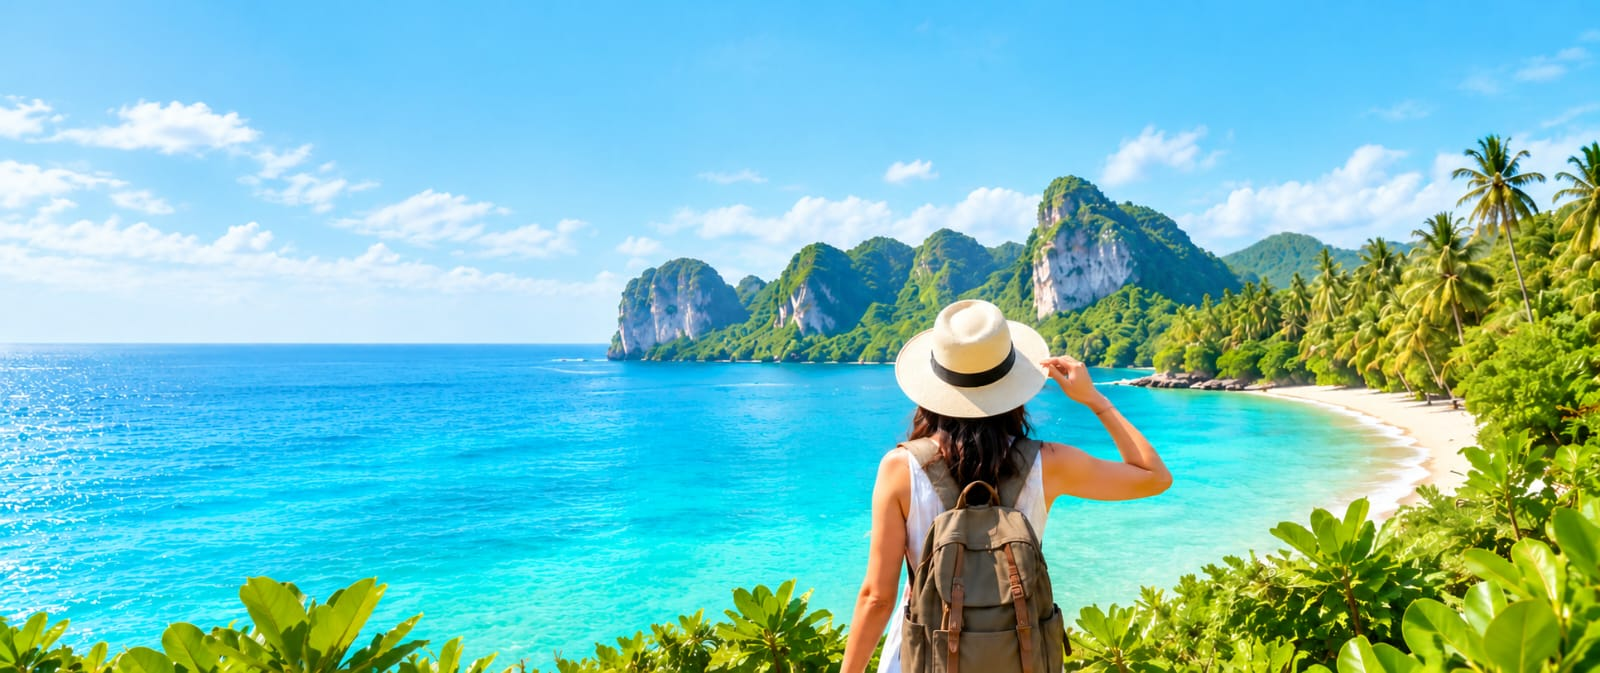
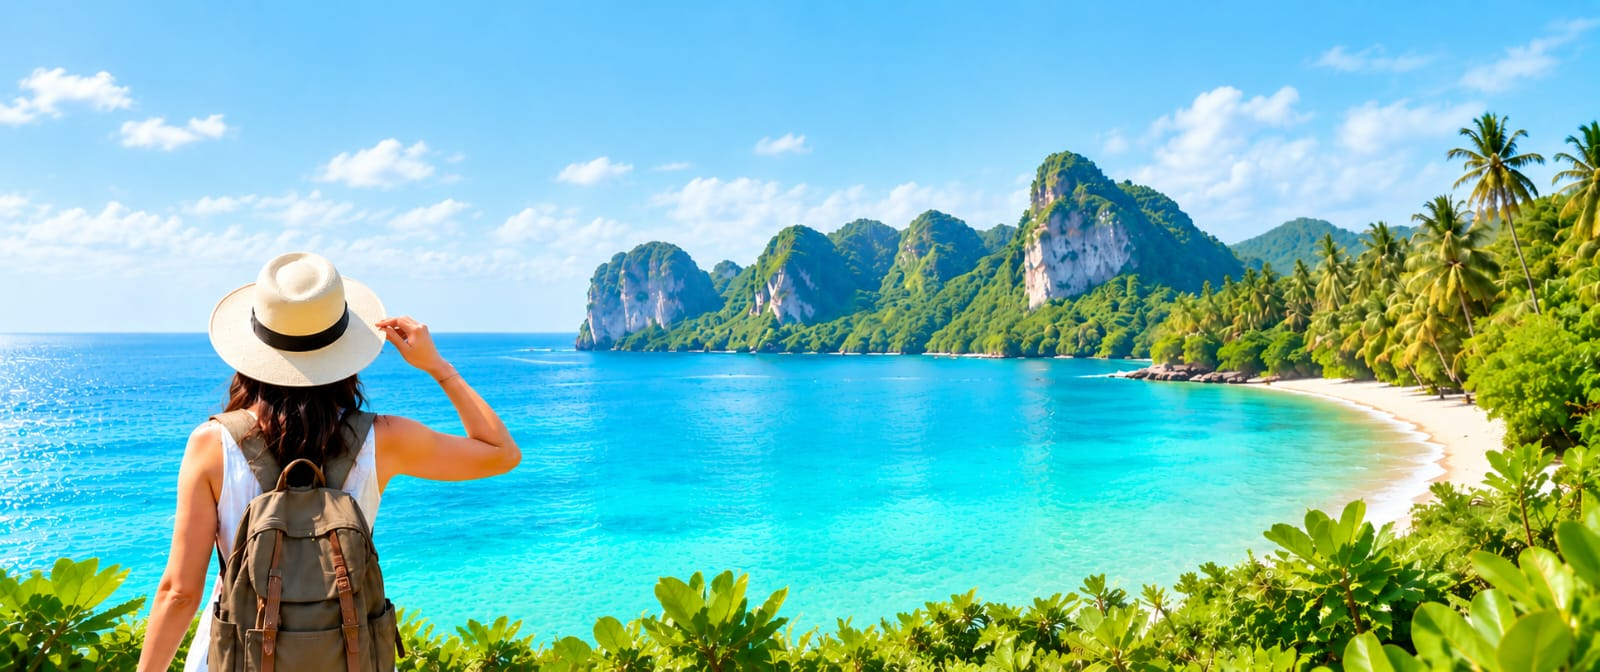
UI enhancements: Updated category images, reduced gradient overlays, improved contact layout, fixed footer alignment, added new backgrounds for about and reviews pages, and updated package duration.

diff --git a/src/components.jsx b/src/components.jsx
@@ -1,12 +1,12 @@
 import React from 'react';
 import { Link, NavLink, useLocation } from 'react-router-dom';
 
-export const MapPin = () => <svg width="18" height="18" viewBox="0 0 24 24" fill="none" stroke="currentColor" strokeWidth="2" strokeLinecap="round" strokeLinejoin="round"><path d="M21 10c0 7-9 13-9 13s-9-6-9-13a9 9 0 0 1 18 0z"></path><circle cx="12" cy="10" r="3"></circle></svg>;
+export const MapPin = ({ size = 18 }) => <svg width={size} height={size} viewBox="0 0 24 24" fill="none" stroke="currentColor" strokeWidth="2" strokeLinecap="round" strokeLinejoin="round"><path d="M21 10c0 7-9 13-9 13s-9-6-9-13a9 9 0 0 1 18 0z"></path><circle cx="12" cy="10" r="3"></circle></svg>;
 export const Calendar = () => <svg width="18" height="18" viewBox="0 0 24 24" fill="none" stroke="currentColor" strokeWidth="2" strokeLinecap="round" strokeLinejoin="round"><rect x="3" y="4" width="18" height="18" rx="2" ry="2"></rect><line x1="16" y1="2" x2="16" y2="6"></line><line x1="8" y1="2" x2="8" y2="6"></line><line x1="3" y1="10" x2="21" y2="10"></line></svg>;
 export const Users = () => <svg width="18" height="18" viewBox="0 0 24 24" fill="none" stroke="currentColor" strokeWidth="2" strokeLinecap="round" strokeLinejoin="round"><path d="M17 21v-2a4 4 0 0 0-4-4H5a4 4 0 0 0-4 4v2"></path><circle cx="9" cy="7" r="4"></circle><path d="M23 21v-2a4 4 0 0 0-3-3.87"></path><path d="M16 3.13a4 4 0 0 1 0 7.75"></path></svg>;
 export const SearchIcon = () => <svg width="20" height="20" viewBox="0 0 24 24" fill="none" stroke="currentColor" strokeWidth="2" strokeLinecap="round" strokeLinejoin="round"><circle cx="11" cy="11" r="8"></circle><line x1="21" y1="21" x2="16.65" y2="16.65"></line></svg>;
 export const Clock = () => <svg width="16" height="16" viewBox="0 0 24 24" fill="none" stroke="currentColor" strokeWidth="2" strokeLinecap="round" strokeLinejoin="round"><circle cx="12" cy="12" r="10"></circle><polyline points="12 6 12 12 16 14"></polyline></svg>;
-export const PhoneIcon = () => <svg width="18" height="18" viewBox="0 0 24 24" fill="none" stroke="currentColor" strokeWidth="2" strokeLinecap="round" strokeLinejoin="round"><path d="M22 16.92v3a2 2 0 0 1-2.18 2 19.79 19.79 0 0 1-8.63-3.07 19.5 19.5 0 0 1-6-6 19.79 19.79 0 0 1-3.07-8.67A2 2 0 0 1 4.11 2h3a2 2 0 0 1 2 1.72 12.84 12.84 0 0 0 .7 2.81 2 2 0 0 1-.45 2.11L8.09 9.91a16 16 0 0 0 6 6l1.27-1.27a2 2 0 0 1 2.11-.45 12.84 12.84 0 0 0 2.81.7A2 2 0 0 1 22 16.92z"></path></svg>;
+export const PhoneIcon = ({ size = 18 }) => <svg width={size} height={size} viewBox="0 0 24 24" fill="none" stroke="currentColor" strokeWidth="2" strokeLinecap="round" strokeLinejoin="round"><path d="M22 16.92v3a2 2 0 0 1-2.18 2 19.79 19.79 0 0 1-8.63-3.07 19.5 19.5 0 0 1-6-6 19.79 19.79 0 0 1-3.07-8.67A2 2 0 0 1 4.11 2h3a2 2 0 0 1 2 1.72 12.84 12.84 0 0 0 .7 2.81 2 2 0 0 1-.45 2.11L8.09 9.91a16 16 0 0 0 6 6l1.27-1.27a2 2 0 0 1 2.11-.45 12.84 12.84 0 0 0 2.81.7A2 2 0 0 1 22 16.92z"></path></svg>;
 export const MailIcon = ({ size = 18 }) => <svg width={size} height={size} viewBox="0 0 24 24" fill="none" stroke="currentColor" strokeWidth="2" strokeLinecap="round" strokeLinejoin="round"><path d="M4 4h16c1.1 0 2 .9 2 2v12c0 1.1-.9 2-2 2H4c-1.1 0-2-.9-2-2V6c0-1.1.9-2 2-2z"></path><polyline points="22,6 12,13 2,6"></polyline></svg>;
 export const Leaf = () => <svg width="32" height="32" viewBox="0 0 24 24" fill="none" stroke="currentColor" strokeWidth="2" strokeLinecap="round" strokeLinejoin="round"><path d="M11 20A7 7 0 0 1 9.8 6.1C15.5 5 17 4.48 19 2c1 2 2 4.18 2 8 0 5.5-4.78 10-10 10Z"></path><path d="M2 21c0-3 1.85-5.36 5.08-6C9.5 14.52 12 13 13 12"></path></svg>;
 export const Shield = () => <svg width="32" height="32" viewBox="0 0 24 24" fill="none" stroke="currentColor" strokeWidth="2" strokeLinecap="round" strokeLinejoin="round"><path d="M12 22s8-4 8-10V5l-8-3-8 3v7c0 6 8 10 8 10z"></path></svg>;
@@ -56,18 +56,18 @@ export function Footer() {
       <div className="footer-grid">
         <div className="footer-brand">
           <h3>NewV Tours and Travels</h3>
-          <p>Founded by Jeevapriya MS.</p>
+          <p>Founded by Jeevapriya MS</p>
         </div>
 
-        <div>
+        <div className="footer-contact-section">
           <h4 className="footer-title">Contact Us</h4>
           <ul className="footer-contact">
-            <li><MapPin /> <span>31A, Chelliamman Koil St, Athipet, Ambattur, Chennai - 600058</span></li>
-            <li><PhoneIcon /> <span>+91 9840636358</span></li>
-            <li><MailIcon /> <span>newvtoursandtravels@gmail.com</span></li>
+            <li><span className="footer-icon-wrap"><MapPin size={22} /></span> <span>31A, Chelliamman Koil Street,<br />Chelliamman Nagar, Athipet, Ambattur, Chennai, <br /> Tamil Nadu,<br />India - 600058</span></li>
+            <li><span className="footer-icon-wrap"><PhoneIcon size={22} /></span> <span>+91 9840636358</span></li>
+            <li><span className="footer-icon-wrap"><MailIcon size={22} /></span> <span>newvtoursandtravels@gmail.com</span></li>
           </ul>
         </div>
-        
+
         <div>
           <h4 className="footer-title">Follow Us</h4>
           <div className="social-links" style={{ display: 'flex', gap: '1.5rem', marginTop: '1rem' }}>
@@ -85,13 +85,13 @@ export function Footer() {
 
         <div>
           <h4 className="footer-title">Our Location</h4>
-          <iframe 
-            src="https://maps.google.com/maps?q=31A,+Chelliamman+Koil+St,+Athipet,+Ambattur,+Chennai&t=&z=14&ie=UTF8&iwloc=&output=embed" 
-            width="100%" 
-            height="180" 
-            style={{ border: 0, borderRadius: '12px', marginTop: '1rem', boxShadow: 'var(--shadow-sm)' }} 
-            allowFullScreen="" 
-            loading="lazy" 
+          <iframe
+            src="https://maps.google.com/maps?q=31A,+Chelliamman+Koil+St,+Athipet,+Ambattur,+Chennai&t=&z=14&ie=UTF8&iwloc=&output=embed"
+            width="100%"
+            height="180"
+            style={{ border: 0, borderRadius: '12px', marginTop: '1rem', boxShadow: 'var(--shadow-sm)' }}
+            allowFullScreen=""
+            loading="lazy"
             title="Office Location"
           ></iframe>
         </div>
@@ -129,16 +129,16 @@ export function PopupModal() {
 
   return (
     <div style={{ position: 'fixed', top: 0, left: 0, right: 0, bottom: 0, background: 'rgba(0,0,0,0.6)', zIndex: 9999, display: 'flex', alignItems: 'center', justifyContent: 'center', padding: '1rem', backdropFilter: 'blur(4px)' }}>
-      <div style={{ background: 'var(--white)', borderRadius: '24px', padding: '2.5rem', maxWidth: '500px', width: '100%', position: 'relative', boxShadow: 'var(--shadow-lg)' }}>
+      <div className="popup-modal-content" style={{ background: 'var(--white)', borderRadius: '24px', padding: '2.5rem', maxWidth: '500px', width: '100%', position: 'relative', boxShadow: 'var(--shadow-lg)' }}>
         <button onClick={() => setIsOpen(false)} style={{ position: 'absolute', top: '1.5rem', right: '1.5rem', background: 'var(--light-gray)', border: 'none', width: '32px', height: '32px', borderRadius: '50%', display: 'flex', alignItems: 'center', justifyContent: 'center', fontSize: '1.2rem', cursor: 'pointer', color: 'var(--slate-gray)' }}>✕</button>
         <h3 style={{ marginBottom: '1.5rem', color: 'var(--deep-forest-green)', fontSize: '1.8rem', textAlign: 'center' }}>Plan Your Dream Trip</h3>
         <p style={{ textAlign: 'center', color: 'var(--slate-gray)', marginBottom: '2rem' }}>Leave your details and we'll craft the perfect itinerary for you.</p>
-        <form onSubmit={(e) => { 
-          e.preventDefault(); 
+        <form onSubmit={(e) => {
+          e.preventDefault();
           const formData = new FormData(e.target);
           const text = `Hello NewV Tours and Travels! I would like to plan my dream trip.%0A%0A*Name:* ${formData.get('name')}%0A*Phone:* ${formData.get('phone')}%0A*Travel Date:* ${formData.get('date')}%0A*Destination:* ${formData.get('destination')}`;
           window.open(`https://wa.me/919840636358?text=${text}`, '_blank', 'noopener,noreferrer');
-          setIsOpen(false); 
+          setIsOpen(false);
         }} style={{ display: 'flex', flexDirection: 'column', gap: '1.2rem' }}>
           <div>
             <label style={{ display: 'block', marginBottom: '0.4rem', fontWeight: '600', color: 'var(--slate-gray)' }}>Full Name</label>

diff --git a/src/pages.jsx b/src/pages.jsx
@@ -30,8 +30,8 @@ const AnimatedNumber = ({ end, duration, suffix = "" }) => {
 export function Home() {
   const categoryBoxes = [
     { title: "India", image: "https://encrypted-tbn0.gstatic.com/images?q=tbn:ANd9GcSAT3giq7Afbau18i9ADt-lLKyFephPrv3vkIM5evsm7A&s=10", link: "/packages", tab: "India" },
-    { title: "International", image: "https://encrypted-tbn0.gstatic.com/images?q=tbn:ANd9GcTcP9efvkJsN_vhabqAIpsX7mwccjl-MJWxf1PHnfib7g&s=10", link: "/packages", tab: "International" },
-    { title: "Wildlife Adventures in India", image: "https://encrypted-tbn0.gstatic.com/images?q=tbn:ANd9GcThzEI00SiPIBLS1vlg9WR9UtDpneXMTZnWmfsgCSHqUg&s=10", link: "/packages", tab: "Wildlife" }
+    { title: "International", image: "/images/category_international.png", link: "/packages", tab: "International" },
+    { title: "Wildlife Adventures in India", image: "/images/category_wildlife.png", link: "/packages", tab: "Wildlife" }
   ];
 
   return (
@@ -53,7 +53,7 @@ export function Home() {
           {categoryBoxes.map((cat, idx) => (
             <div className={`dest-card category-card animate-fade-in-up delay-${(idx + 1) * 100}`} key={idx} style={{ padding: 0, overflow: 'hidden', position: 'relative', display: 'flex', flexDirection: 'column', justifyContent: 'flex-end', borderRadius: '24px', boxShadow: '0 10px 30px rgba(0,0,0,0.1)' }}>
               <img src={cat.image} alt={cat.title} className="dest-img" style={{ position: 'absolute', top: 0, left: 0, width: '100%', height: '100%', objectFit: 'cover', objectPosition: 'center top', zIndex: 0 }} />
-              <div style={{ position: 'absolute', top: 0, left: 0, right: 0, bottom: 0, background: 'linear-gradient(to top, rgba(0,0,0,0.9) 0%, rgba(0,0,0,0.2) 60%, rgba(0,0,0,0.1) 100%)', zIndex: 1 }}></div>
+              <div style={{ position: 'absolute', top: 0, left: 0, right: 0, bottom: 0, background: 'linear-gradient(to top, rgba(0,0,0,0.7) 0%, rgba(0,0,0,0.1) 60%, rgba(0,0,0,0) 100%)', zIndex: 1 }}></div>
               <div className="dest-info" style={{ padding: '2rem', textAlign: 'center', position: 'relative', zIndex: 2 }}>
                 <h3 className="dest-title" style={{ fontSize: '1.8rem', marginBottom: '1.5rem', color: 'var(--white)', textShadow: '0 2px 4px rgba(0,0,0,0.5)' }}>{cat.title}</h3>
                 <Link to={cat.link} state={{ activeTab: cat.tab }} className="btn-primary" style={{ padding: '0.8rem 2rem', fontSize: '1rem', textDecoration: 'none', display: 'inline-block', border: 'none', background: 'var(--nature-green)', color: 'white' }}>View Tour Packages</Link>
@@ -114,7 +114,7 @@ export function Home() {
 
       <section className="cta-section animate-fade-in-up" style={{ margin: '5rem auto' }}>
         <h2 className="cta-title">Ready for your next adventure?</h2>
-        <p className="cta-desc">Ready to create unforgettable memories? Let our experts craft the perfect personalized itinerary for your next great adventure.</p>
+        <p className="cta-desc"> Let our experts craft the perfect personalized itinerary for you</p>
         <button
           className="btn-secondary"
           style={{ padding: '1rem 3rem', fontSize: '1.1rem', position: 'relative', zIndex: 10, cursor: 'pointer' }}
@@ -187,7 +187,7 @@ export function Packages() {
     { title: 'Golden Triangle Tour – Delhi – Agra – Jaipur', duration: '5 Nights and 6 Days', image: '/images/Pictures/Delhi.jpg' },
     { title: 'Goa', duration: '3 Nights and 4 Days', image: 'https://titosgoa.com/_next/image?url=%2Fapi%2Fuploads%2F1768282500728-why-tourists-visit-goa.png&w=1200&q=75' },
     { title: 'Gujarat – Rann Utsav', duration: '4 Nights and 5 Days', image: '/images/rann-utsav.jpg' },
-    { title: 'Himachal - Manali, Shimla, Dalhousie, Dharamshala', duration: 'Varying', image: 'https://assets.cntraveller.in/photos/66ab6453fe4fdad0450b3402/16:9/w_1920,c_limit/GettyImages-1580694292.jpg' },
+    { title: 'Himachal - Manali, Shimla, Dalhousie, Dharamshala', duration: '2Nights and 3 Days', image: 'https://assets.cntraveller.in/photos/66ab6453fe4fdad0450b3402/16:9/w_1920,c_limit/GettyImages-1580694292.jpg' },
     { title: 'Kashmir', duration: '4 Nights and 5 Days', image: '/images/kashmir.jpg' },
     { title: 'Kerala - Kochi - Munnar - Allepey - Thekkady', duration: '4 Nights and 5 Days', image: '/images/kerala_houseboat.png' },
     { title: 'Kodaikanal', duration: '3 Nights and 4 Days', image: '/images/kodaikanal.jpg' },
@@ -270,7 +270,7 @@ export function Packages() {
           {getActivePackages().map((pkg, idx) => (
             <div className="dest-card package-card" key={idx} style={{ padding: 0, overflow: 'hidden', position: 'relative', display: 'flex', flexDirection: 'column', justifyContent: 'flex-end', borderRadius: '20px' }}>
               <img src={pkg.image} alt={pkg.title} className="dest-img" style={{ position: 'absolute', top: 0, left: 0, width: '100%', height: '100%', objectFit: 'cover', zIndex: 0 }} />
-              <div style={{ position: 'absolute', top: 0, left: 0, right: 0, bottom: 0, background: 'linear-gradient(to top, rgba(0,0,0,0.95) 0%, rgba(0,0,0,0.4) 60%, rgba(0,0,0,0) 100%)', zIndex: 1 }}></div>
+              <div style={{ position: 'absolute', top: 0, left: 0, right: 0, bottom: 0, background: 'linear-gradient(to top, rgba(0,0,0,0.75) 0%, rgba(0,0,0,0.2) 60%, rgba(0,0,0,0) 100%)', zIndex: 1 }}></div>
               <div style={{ padding: '1.5rem', position: 'relative', zIndex: 2, display: 'flex', flexDirection: 'column' }}>
                 <h3 style={{ fontSize: '1.3rem', color: 'var(--white)', marginBottom: '0.5rem', textShadow: '0 2px 4px rgba(0,0,0,0.6)' }}>{pkg.title}</h3>
                 <div style={{ display: 'flex', alignItems: 'center', gap: '0.5rem', color: 'var(--fresh-lime)', fontWeight: '600', fontSize: '0.95rem', marginBottom: '1.2rem' }}>
@@ -289,7 +289,7 @@ export function Packages() {
 export function About() {
   return (
     <>
-      <PageHeader title="About Us" subtitle="Discover the world. Discover the new you." image="https://images.unsplash.com/photo-1469474968028-56623f02e42e?auto=format&fit=crop&q=80&w=1600" />
+      <PageHeader title="About Us" subtitle="Discover the world. Discover the new you." image="/images/about_bg.png" />
       <section className="container" style={{ minHeight: '60vh', padding: '6rem 2rem' }}>
         <div className="about-grid">
           <div className="about-img-wrapper animate-fade-in-up">
@@ -471,8 +471,8 @@ const ReviewCard = ({ review, idx }) => {
         </div>
 
         <div style={{ flex: 1, display: 'flex', flexDirection: 'column' }}>
-          <div style={{ 
-            maxHeight: isExpanded ? '120px' : 'none', 
+          <div style={{
+            maxHeight: isExpanded ? '120px' : 'none',
             overflowY: isExpanded ? 'auto' : 'visible',
             paddingRight: isExpanded ? '8px' : '0'
           }}>
@@ -481,8 +481,8 @@ const ReviewCard = ({ review, idx }) => {
             </p>
           </div>
           {isLong && (
-            <button 
-              onClick={() => setIsExpanded(!isExpanded)} 
+            <button
+              onClick={() => setIsExpanded(!isExpanded)}
               style={{ color: 'var(--nature-green)', background: 'none', border: 'none', padding: 0, marginTop: '8px', cursor: 'pointer', fontWeight: '600', fontSize: '0.95rem', alignSelf: 'flex-start' }}
             >
               {isExpanded ? 'Show Less' : 'Read More'}
@@ -514,7 +514,7 @@ export function Reviews() {
 
   return (
     <>
-      <PageHeader title="Client Reviews" subtitle="Real experiences from our happy travellers." image="https://images.unsplash.com/photo-1522202176988-66273c2fd55f?auto=format&fit=crop&q=80&w=1600" />
+      <PageHeader title="Client Reviews" subtitle="Real experiences from our happy travellers." image="/images/reviews_bg.png" />
       <section className="container" style={{ minHeight: '60vh', padding: '6rem 0' }}>
         <h2 className="section-title animate-fade-in-up" style={{ textAlign: 'center', marginBottom: '4rem' }}>Our Happy Travellers</h2>
 

diff --git a/src/index.css b/src/index.css
@@ -364,7 +364,7 @@ section {
   content: '';
   position: absolute;
   inset: 0;
-  background: linear-gradient(to right, rgba(27, 94, 32, 0.6), rgba(0, 0, 0, 0.3));
+  background: linear-gradient(to right, rgba(27, 94, 32, 0.4), rgba(0, 0, 0, 0.1));
 }
 
 .hero-content {
@@ -508,9 +508,9 @@ section {
 
 .contact-grid {
   display: grid;
-  grid-template-columns: repeat(auto-fit, minmax(350px, 1fr));
+  grid-template-columns: 1.5fr 1fr;
   gap: 4rem;
-  max-width: 1000px;
+  max-width: 1300px;
   margin: 0 auto;
 }
 
@@ -787,15 +787,25 @@ section {
 
 .footer-contact li {
   display: flex;
-  align-items: flex-start;
+  align-items: flex-start !important;
   gap: 0.8rem;
   margin-bottom: 1rem;
   color: var(--slate-gray);
+  text-align: left !important;
 }
 
-.footer-contact li {
-  color: var(--charcoal);
-  margin-top: 0.3rem;
+.footer-icon-wrap {
+  display: flex;
+  align-items: center;
+  justify-content: center;
+  width: 36px;
+  height: 36px;
+  min-width: 36px;
+  border-radius: 50%;
+  background: rgba(67, 160, 71, 0.12);
+  color: var(--nature-green);
+  flex-shrink: 0;
+  margin-top: 0.1rem;
 }
 
 .footer-bottom {
@@ -898,7 +908,7 @@ section {
   }
 
   .brand-logo {
-    height: 65px;
+    height: 80px;
     max-width: 80vw;
     object-fit: contain;
   }
@@ -1008,7 +1018,7 @@ section {
 
 @media (max-width: 480px) {
   .brand-logo {
-    height: 38px;
+    height: 55px;
   }
 }
 
@@ -1242,7 +1252,24 @@ section {
 
   .footer-contact li {
     justify-content: center;
-    text-align: left;
+    text-align: center;
+  }
+
+  .footer-contact-section {
+    display: flex;
+    flex-direction: column;
+    align-items: center;
+  }
+
+  .footer-contact {
+    display: flex;
+    flex-direction: column;
+    align-items: center;
+  }
+
+  .footer-contact li svg {
+    flex-shrink: 0;
+    min-width: 24px;
   }
 
   /* Page header */
@@ -1268,6 +1295,43 @@ section {
   /* Popup modal */
   .popup-form-row {
     grid-template-columns: 1fr;
+  }
+
+  .popup-modal-content {
+    padding: 1.5rem !important;
+    border-radius: 16px !important;
+    max-height: 85vh;
+    overflow-y: auto;
+  }
+
+  .popup-modal-content h3 {
+    font-size: 1.4rem !important;
+    margin-bottom: 0.8rem !important;
+  }
+
+  .popup-modal-content p {
+    font-size: 0.9rem;
+    margin-bottom: 1rem !important;
+  }
+
+  .popup-modal-content form {
+    gap: 0.8rem !important;
+  }
+
+  .popup-modal-content input {
+    padding: 0.7rem !important;
+    font-size: 0.9rem !important;
+  }
+
+  .popup-modal-content label {
+    font-size: 0.85rem !important;
+    margin-bottom: 0.2rem !important;
+  }
+
+  .popup-modal-content button[type="submit"] {
+    padding: 0.8rem !important;
+    font-size: 0.95rem !important;
+    margin-top: 0.5rem !important;
   }
 }
 

diff --git a/src/reviewImages.js b/src/reviewImages.js
@@ -1,5 +1,5 @@
 export const reviewImages = [
-  "WhatsApp Image 2026-08-28 at 11.14.41 AM.jpeg",
+  "first.jpeg",
   "WhatsApp Image 2026-08-23 at 4.35.55 PM (1).jpeg",
   "WhatsApp Image 2026-08-23 at 4.35.55 PM (2).jpeg",
   "WhatsApp Image 2026-08-23 at 4.35.30 PM.jpeg",
